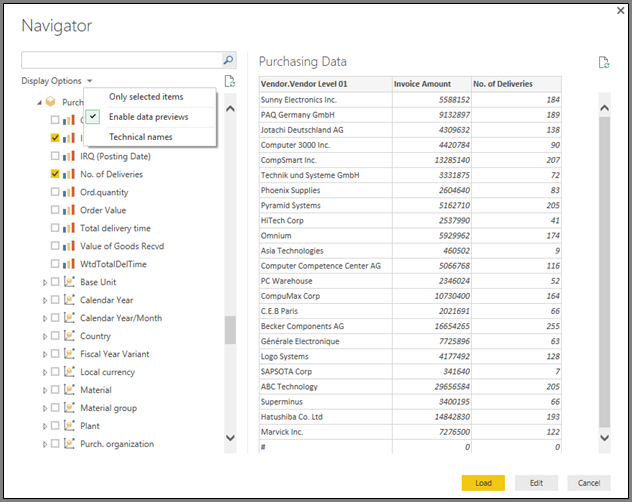
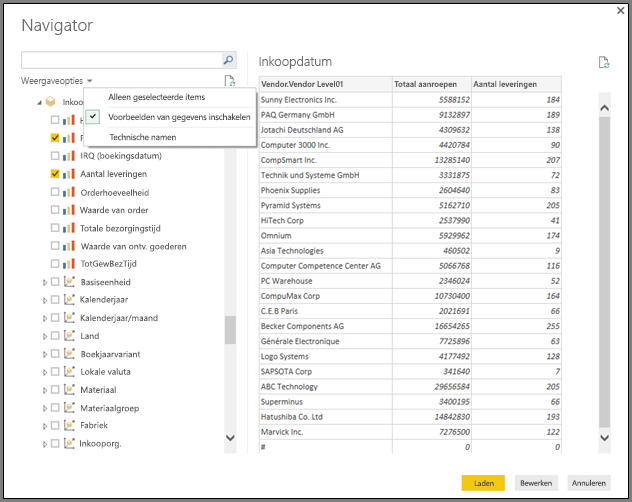
commit translated contents

diff --git a/powerbi-docs/create-reports/desktop-cross-report-drill-through.md b/powerbi-docs/create-reports/desktop-cross-report-drill-through.md
@@ -9,12 +9,12 @@ ms.topic: conceptual
 ms.date: 01/16/2019
 ms.author: maggies
 LocalizationGroup: Create reports
-ms.openlocfilehash: 0c9f9c0f24ad40fadb7d0bd61cd6a6ce7d318e74
-ms.sourcegitcommit: 0e9e211082eca7fd939803e0cd9c6b114af2f90a
+ms.openlocfilehash: 178ad340a9a3ccd9d6427dc6bad03b6d8d08ce90
+ms.sourcegitcommit: 250242fd6346b60b0eda7a314944363c0bacaca8
 ms.translationtype: HT
 ms.contentlocale: nl-NL
-ms.lasthandoff: 05/13/2020
-ms.locfileid: "83297832"
+ms.lasthandoff: 05/20/2020
+ms.locfileid: "83694065"
 ---
 # <a name="use-cross-report-drillthrough-in-power-bi"></a>Drillthrough voor verschillende rapporten gebruiken in Power BI
 
@@ -31,7 +31,7 @@ Met de actie Drillthrough wordt de *doelpagina* in het *doelrapport* geopend.
 Dit artikel laat u zien hoe u een drillthrough voor verschillende rapporten kunt instellen en gebruiken voor Power BI-rapporten.
 
 > [!NOTE]
-> U kunt geen drillthrough voor verschillende rapporten gebruiken met persoonlijk gedeelde [Gedeeld met mij-rapporten](../collaborate-share/service-share-dashboards.md#share-a-dashboard-or-report) in **Mijn werkruimte**. Als u een drillthrough voor verschillende rapporten wilt gebruiken, moet u toegang hebben tot rapporten in de werkruimte van waaruit ze zijn gedeeld.
+> U kunt geen drillthrough voor verschillende rapporten gebruiken met persoonlijk gedeelde [Gedeeld met mij-rapporten](../collaborate-share/service-share-dashboards.md#share-a-dashboard-or-report). Als u een drillthrough voor verschillende rapporten wilt gebruiken, moet u toegang hebben tot rapporten in werkruimten waarvan u lid bent.
 
 ## <a name="enable-cross-report-drillthrough"></a>Drillthrough voor meerdere rapporten inschakelen
 
